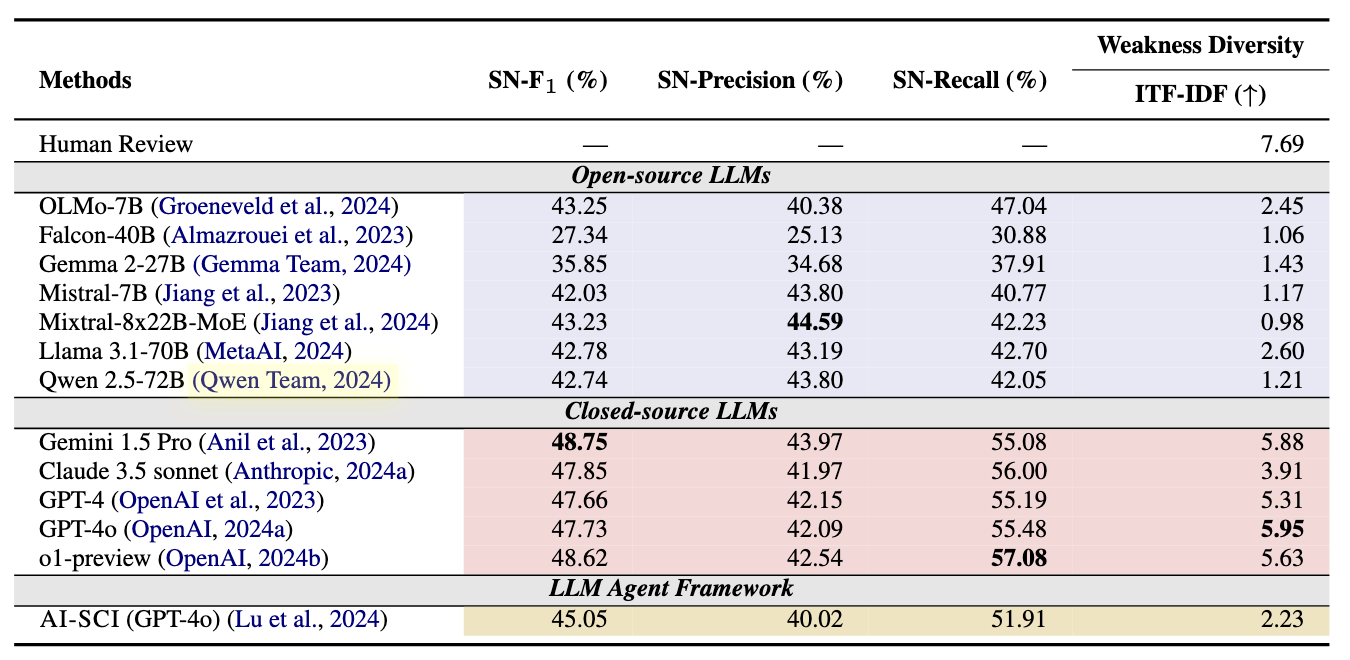
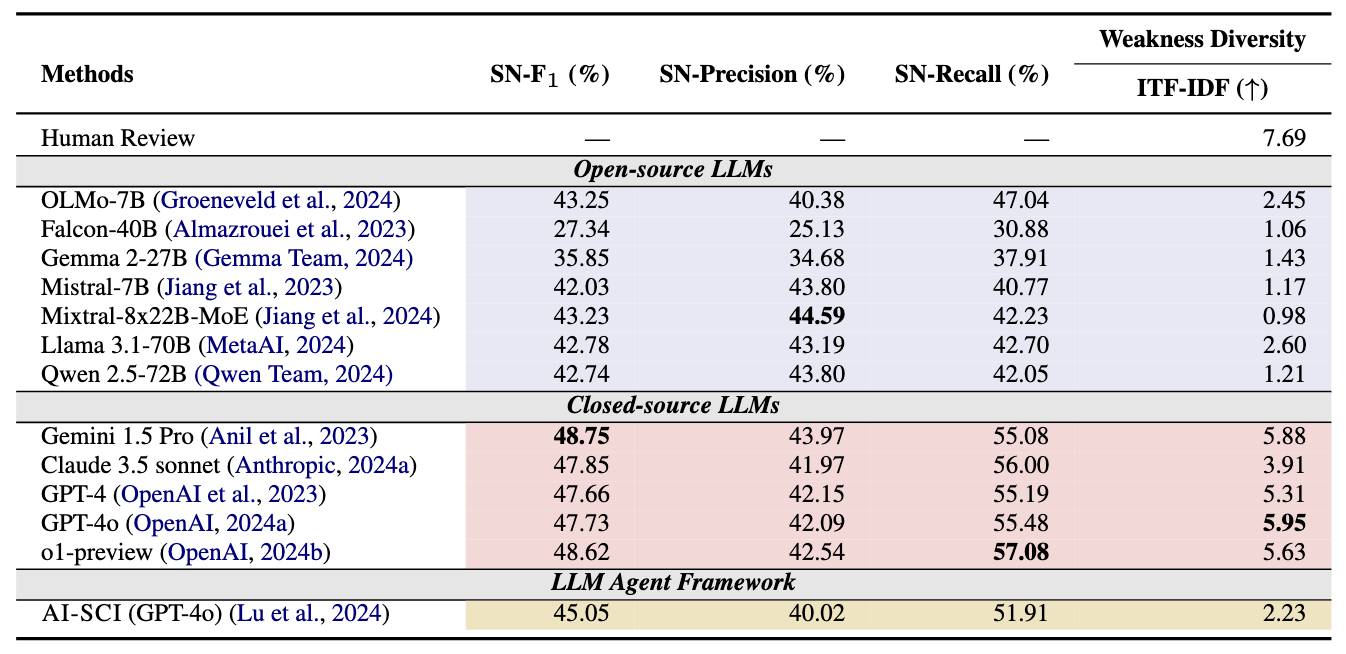
fix display error

diff --git a/index.html b/index.html
@@ -323,7 +323,7 @@
 
         <div class="content has-text-justified">
           <p>
-            we introduce <span class="printerFont">AAAR-1.0</span> ("1.0" denotes <b>this work is a beginning of a series</b>), a benchmark dataset designed to evaluate LLM performance in four fundamental, expertise-intensive research tasks, which most AI and Machine Learning researchers encounter daily:
+            We introduce <span class="printerFont">AAAR-1.0</span> ("1.0" denotes <b>this work is a beginning of a series</b>), a benchmark dataset designed to evaluate LLM performance in four fundamental, expertise-intensive research tasks, which most AI and Machine Learning researchers encounter daily:
           </p>
           <style>
             #indented {
@@ -590,7 +590,7 @@ identifying each segment in human reviews is deficient or not.
               <div class="column is-full">
                   <div class="item">
                       <!-- Your image here -->
-                      <img src="static/images/performance_task2.png" alt="MainTable_task2" width="700" height="600" />
+                      <img src="static/images/performance_task2.png" alt="MainTable_task2" width="770" height="650" />
                       <h2 class="subtitle"  style="text-align:center; font-size: 16px;">
                       <u>Table 2</u>: Various LLMs' performances on the 100 instances of <span style="background-color: #fadfdc;"><b>ExperiementDesign</b></span>. The explanation
                           generation is based on the oracle experiments to prevent error propagation. 
@@ -621,7 +621,7 @@ Additionally, we add results based on Llama2 to further enhance the aforemention
               <div class="column is-full">
                   <div class="item">
                       <!-- Your image here -->
-                      <img src="static/images/performance_task3.png" alt="MainTable_task3" width="700" height="600" />
+                      <img src="static/images/performance_task3.png" alt="MainTable_task3" width="770" height="650" />
                       <h2 class="subtitle" style="text-align:center; font-size: 16px;">
                       <u>Table 3</u>: Various LLMs' performances on the 993 instances of <span style="background-color: #ddf2ff;"><b>PaperWeakness</b></span>.
                       </h2>
@@ -649,7 +649,7 @@ Additionally, we add results based on Llama2 to further enhance the aforemention
                   <div class="column is-full">
                       <div class="item">
                           <!-- Your image here -->
-                          <img src="static/images/performance_task4.png" alt="MainTable_task4" width="700" height="600" />
+                          <img src="static/images/performance_task4.png" alt="MainTable_task4" width="770" height="650" />
                           <h2 class="subtitle" style="text-align:center; font-size: 16px;">
                               <u>Table 4</u>: From (<a href="https://arxiv.org/pdf/2406.16253" target="_blank">Du et al., 2024</a>), various LLMs' performances on the 11,376 instances of
                               <span style="background-color: #fff1b9;"><b>ReviewCritique</b></span>. The best F1 score among different prompt methods for a single model is
